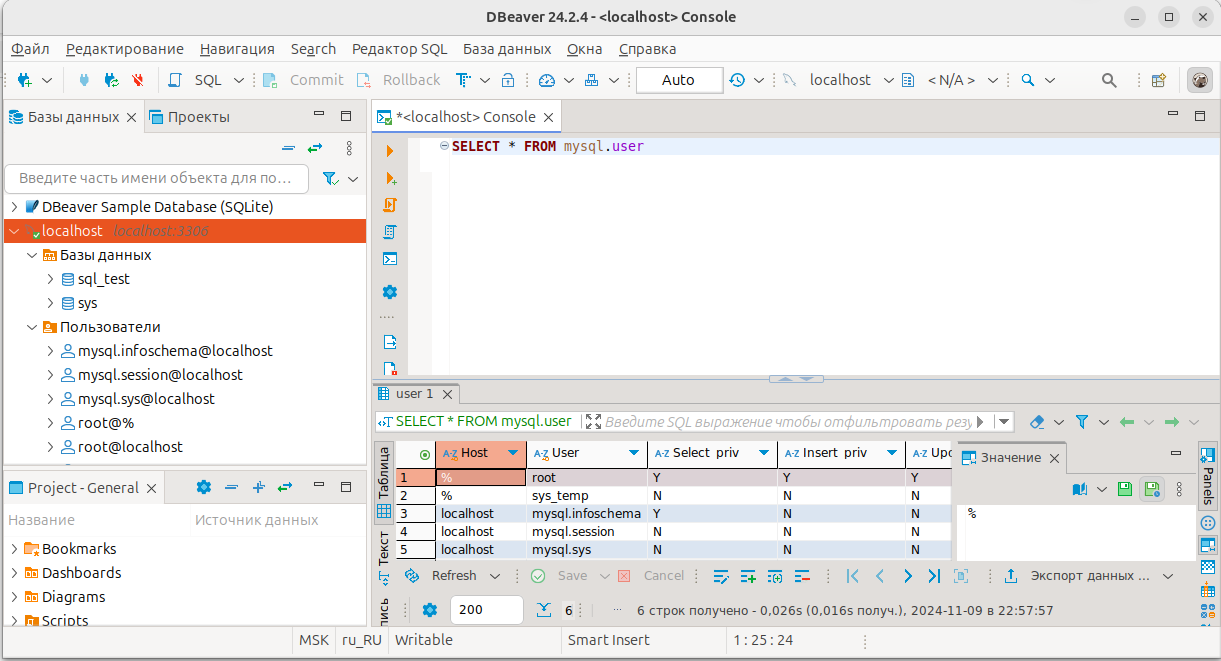
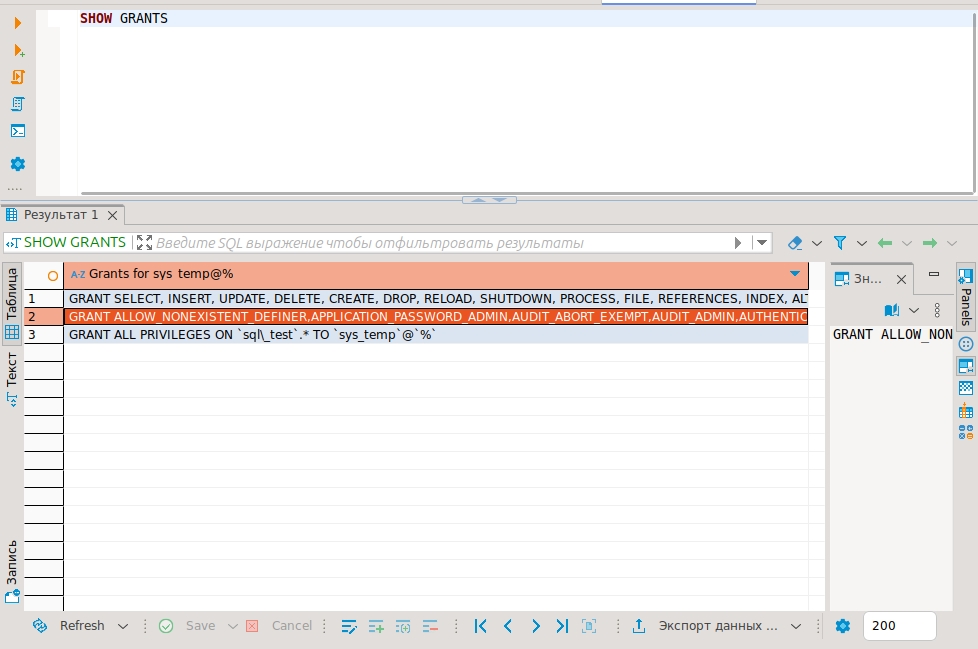
final

diff --git a/12-02.md b/12-02.md
@@ -26,7 +26,6 @@
 
 ```
 CREATE USER 'sys_temp'@'localhost' IDENTIFIED BY 'password';
-
 ```
 
 1.3. Выполните запрос на получение списка пользователей в базе данных. (скриншот)
@@ -37,17 +36,15 @@ CREATE USER 'sys_temp'@'localhost' IDENTIFIED BY 'password';
 
 ```
 GRANT ALL PRIVILEGES ON *.* TO 'sys_temp'@'localhost';
-
 ```
 
 1.5. Выполните запрос на получение списка прав для пользователя sys_temp. (скриншот)
 
 ```
 SHOW GRANTS
-
 ```
 
-
+![img](https://github.com/igoryanich94/sdb-homeworks/blob/sdbsql-24/img/12-02/1.png)
 
 
 1.6. Переподключитесь к базе данных от имени sys_temp.
@@ -66,13 +63,13 @@ CREATE DATABASE sakila
 USE sakila
 
 SOURCE /path/to/database
-
 ```
 
 1.8. При работе в IDE сформируйте ER-диаграмму получившейся базы данных. При работе в командной строке используйте команду для получения всех таблиц базы данных. (скриншот)
 
 *Результатом работы должны быть скриншоты обозначенных заданий, а также простыня со всеми запросами.*
 
+![img](https://github.com/igoryanich94/sdb-homeworks/blob/sdbsql-24/img/12-02/2.png)
 
 ### Задание 2
 Составьте таблицу, используя любой текстовый редактор или Excel, в которой должно быть два столбца: в первом должны быть названия таблиц восстановленной базы, во втором названия первичных ключей этих таблиц. Пример: (скриншот/текст)
@@ -100,7 +97,6 @@ payment		payment_id
 rental		rental_id
 staff		staff_id
 store		store_id
-
 ```
 
 
